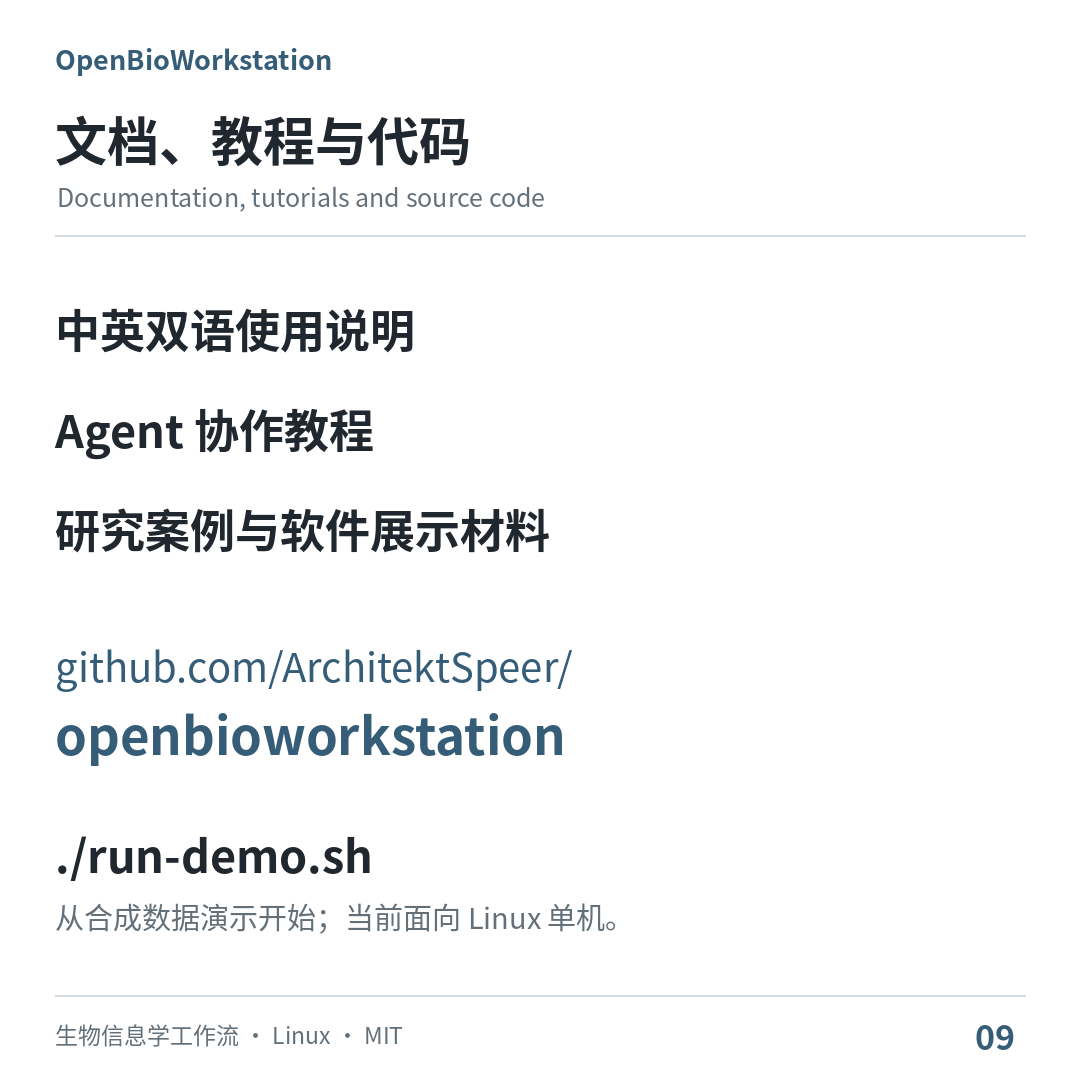
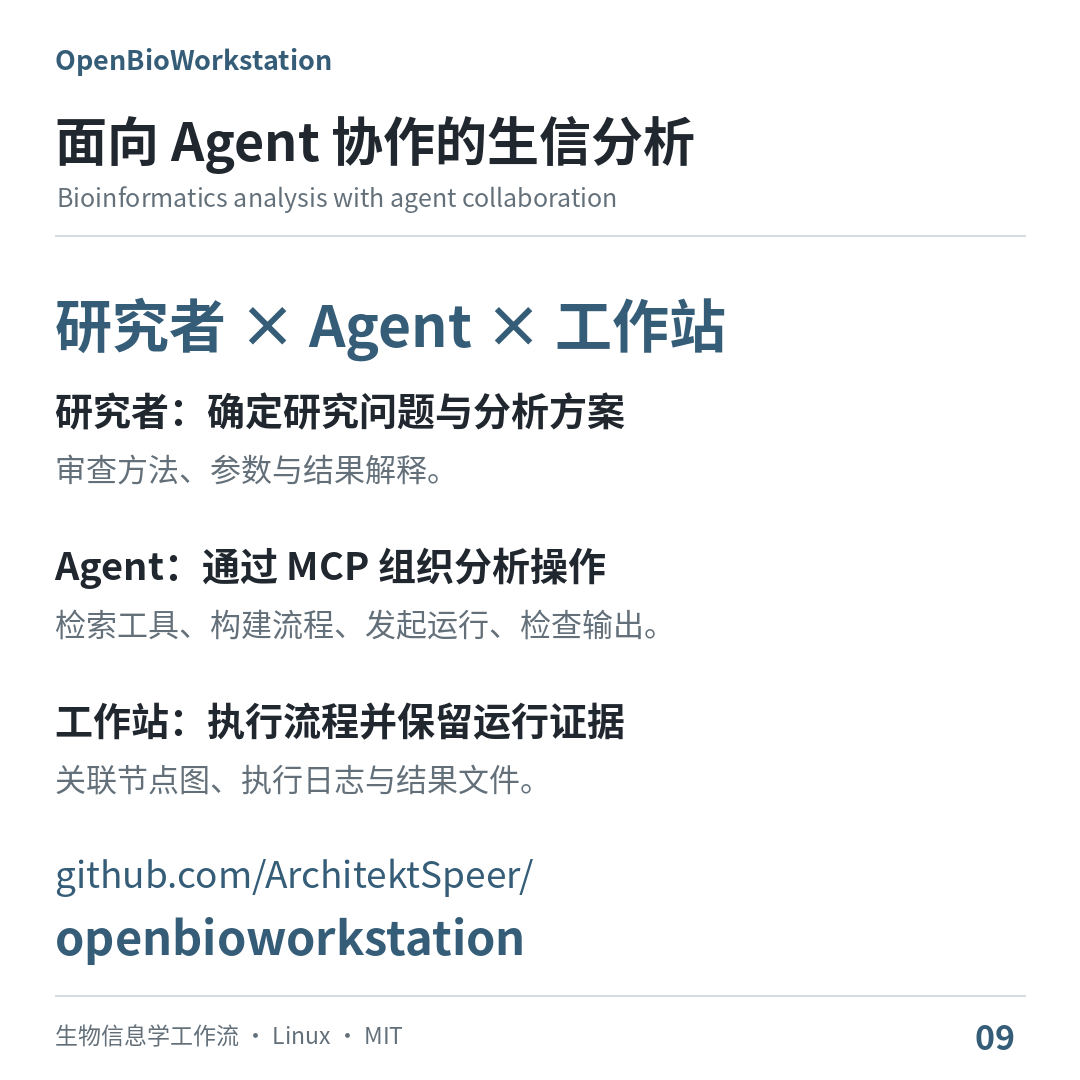
docs: emphasize agent collaboration in QQ Zone closing card

diff --git a/promo/scripts/make_qzone_grid.py b/promo/scripts/make_qzone_grid.py
@@ -45,7 +45,7 @@ def main():
     t(58, 610, "节点图构建 · Snakemake 执行", 40)
     t(58, 675, "MCP 接口支持 Agent 协作", 40)
     t(58, 810, "面向本地计算分析", 34, BLUE)
-    t(58, 875, "中英双语文档、教程及研究案例", 30, MUTED)
+    t(58, 875, "Agent 协作教程与研究案例", 30, MUTED)
     cards.append(im)
 
     im, d, t = base(2, "工作流的可视化组织", "Workflow construction")
@@ -125,14 +125,16 @@ def main():
     t(55, 949, "既有案例结果；未在本次制图中重新分析。", 27, MUTED)
     cards.append(im)
 
-    im, d, t = base(9, "文档、教程与代码", "Documentation, tutorials and source code")
-    t(55, 295, "中英双语使用说明", 45, bold=True)
-    t(55, 395, "Agent 协作教程", 45, bold=True)
-    t(55, 495, "研究案例与软件展示材料", 45, bold=True)
-    t(55, 635, "github.com/ArchitektSpeer/", 40, BLUE)
-    t(55, 695, "openbioworkstation", 51, BLUE, True)
-    t(55, 820, "./run-demo.sh", 45, bold=True)
-    t(55, 895, "从合成数据演示开始；当前面向 Linux 单机。", 29, MUTED)
+    im, d, t = base(9, "面向 Agent 协作的生信分析", "Bioinformatics analysis with agent collaboration")
+    t(55, 280, "研究者 × Agent × 工作站", 57, BLUE, True)
+    t(55, 380, "研究者：确定研究问题与分析方案", 38, bold=True)
+    t(55, 445, "审查方法、参数与结果解释。", 31, MUTED)
+    t(55, 535, "Agent：通过 MCP 组织分析操作", 38, bold=True)
+    t(55, 600, "检索工具、构建流程、发起运行、检查输出。", 31, MUTED)
+    t(55, 690, "工作站：执行流程并保留运行证据", 38, bold=True)
+    t(55, 755, "关联节点图、执行日志与结果文件。", 31, MUTED)
+    t(55, 845, "github.com/ArchitektSpeer/", 37, BLUE)
+    t(55, 900, "openbioworkstation", 47, BLUE, True)
     cards.append(im)
 
     sheet = Image.new("RGB", (3240, 3240), "white")

diff --git a/promo/copy.md b/promo/copy.md
@@ -10,15 +10,15 @@ A visual workflow platform for local bioinformatics analysis and agent-assisted 
 
 ## 简介 / Short description
 
-OpenBioWorkstation 集成 NodeGraphQt、Snakemake 与 MCP，将流程构建、执行状态、文件检查和运行记录关联到同一本地工作区。研究者可与 Agent 协作组织计算分析，并检查实际运行证据。项目提供合成数据演示、双语教程及既有研究案例展示。
+OpenBioWorkstation 集成 NodeGraphQt、Snakemake 与 MCP，将流程构建、执行状态、文件检查和运行记录关联到同一本地工作区。研究者可与 Agent 协作组织计算分析，并检查实际运行证据。项目提供合成数据演示、Agent 协作教程及既有研究案例展示。
 
-OpenBioWorkstation integrates NodeGraphQt, Snakemake and MCP to associate workflow construction, execution state, file inspection and run records in a shared local workspace. Researchers and agents can organize computational analyses while inspecting execution evidence. Synthetic demos, bilingual tutorials and existing research case materials are provided.
+OpenBioWorkstation integrates NodeGraphQt, Snakemake and MCP to associate workflow construction, execution state, file inspection and run records in a shared local workspace. Researchers and agents can organize computational analyses while inspecting execution evidence. Synthetic demos, agent-collaboration tutorials and existing research case materials are provided.
 
 ## 社交平台短文 / Short social post
 
-OpenBioWorkstation：用节点画布组织生信流程，由 Snakemake 执行，并通过 MCP 与 Agent 协作。现提供中英双语说明、可运行的合成数据教程及研究展示附件。Linux 单机，MIT 开源。
+OpenBioWorkstation：用节点画布组织生信流程，由 Snakemake 执行，并通过 MCP 与 Agent 协作。现提供Agent 协作教程、可运行的合成数据示例及研究展示附件。Linux 单机，MIT 开源。
 
-OpenBioWorkstation combines a visual bioinformatics canvas, Snakemake execution and MCP-based agent assistance. Includes bilingual documentation, a runnable synthetic-data tutorial and research showcase PDFs. Linux desktop, single machine, MIT licensed.
+OpenBioWorkstation combines a visual bioinformatics canvas, Snakemake execution and MCP-based agent assistance. Includes an agent-collaboration guide, a runnable synthetic-data tutorial and research showcase PDFs. Linux desktop, single machine, MIT licensed.
 
 ## 技术社区 / Technical community
 
@@ -58,7 +58,7 @@ Limitations include no multi-user service or sample wildcard expansion, and tool
 
 **如何开始？ / Where should I start?**
 
-先运行离线演示，再按双语 Agent 教程完成 SeqKit 合成练习。 / Run the offline demo, then follow the bilingual agent tutorial for the synthetic SeqKit exercise.
+先运行离线演示，再按Agent 协作教程完成 SeqKit 合成练习。 / Run the offline demo, then follow the agent-collaboration tutorial for the synthetic SeqKit exercise.
 
 ## 声明依据 / Claim basis
 

diff --git a/promo/qzone/README.md b/promo/qzone/README.md
@@ -17,11 +17,13 @@
 
 ## 可直接发布的配文
 
-OpenBioWorkstation 是面向 Linux 本地环境的生物信息学可视化工作流平台，集成节点图编辑、Snakemake 执行与 MCP 接口，支持研究者与 Agent 协作构建和检查计算分析流程。
+**OpenBioWorkstation：面向 Agent 协作的生物信息学工作站**
 
-截至 2026 年 11 月 1 日，当前本机已为 69 个软件包建立 78 个封装节点；连同内置 wrapper 和本机节点，共提供 93 个节点定义，其中 62 个带有审核标记。工具审核工作正在逐步推进。工具目录包含 15,524 条可检索索引，并支持基于命令行帮助文本，通过 LLM 自动生成节点定义，随后进行检查、试运行和审核。
+近期开发并开源了 OpenBioWorkstation，尝试将 Agent 协作纳入可视化、可检查的生物信息学分析流程。研究者确定研究问题、分析方法和参数；Agent 通过 MCP 检索工具、构建节点图、发起任务并检查输出；工作站使用 Snakemake 执行流程，并关联保存图结构、运行日志与结果文件，为协作过程提供可核查的执行记录。
 
-上述软件包、节点和索引采用不同统计口径；可检索不等于可直接执行，生成定义也不等于完成真实数据验证。项目现提供中英双语文档、Agent 协作教程及研究案例材料。
+截至 2026 年 11 月 1 日，当前本机已为 69 个软件包建立封装，连同内置 wrapper 与本机节点，共包含 93 个节点定义，其中 62 个带有审核标记。工具审核工作正在逐步推进。工具目录另提供 15,524 条可检索索引，并支持通过 LLM 根据命令行帮助文本生成节点定义，再进行检查、试运行与审核。软件包、节点与索引采用不同统计口径；可检索或已生成定义不等于通过真实数据验证。
+
+项目目前面向 Linux 单机环境，提供 Agent 协作教程与研究案例。希望这一实现能够为研究者与 Agent 共同组织计算分析提供可供检验和改进的工具，欢迎同行试用、讨论与参与开发。
 
 项目地址：https://github.com/ArchitektSpeer/openbioworkstation
 
